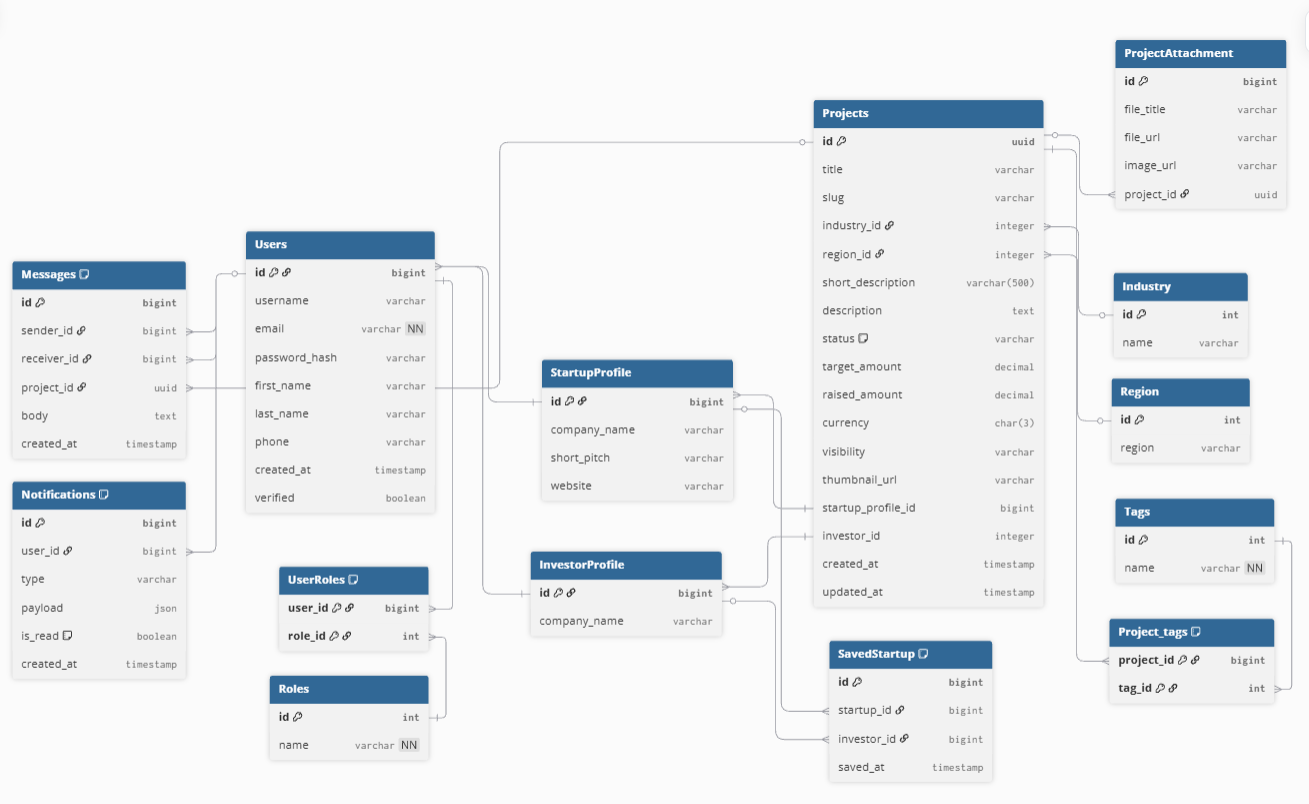
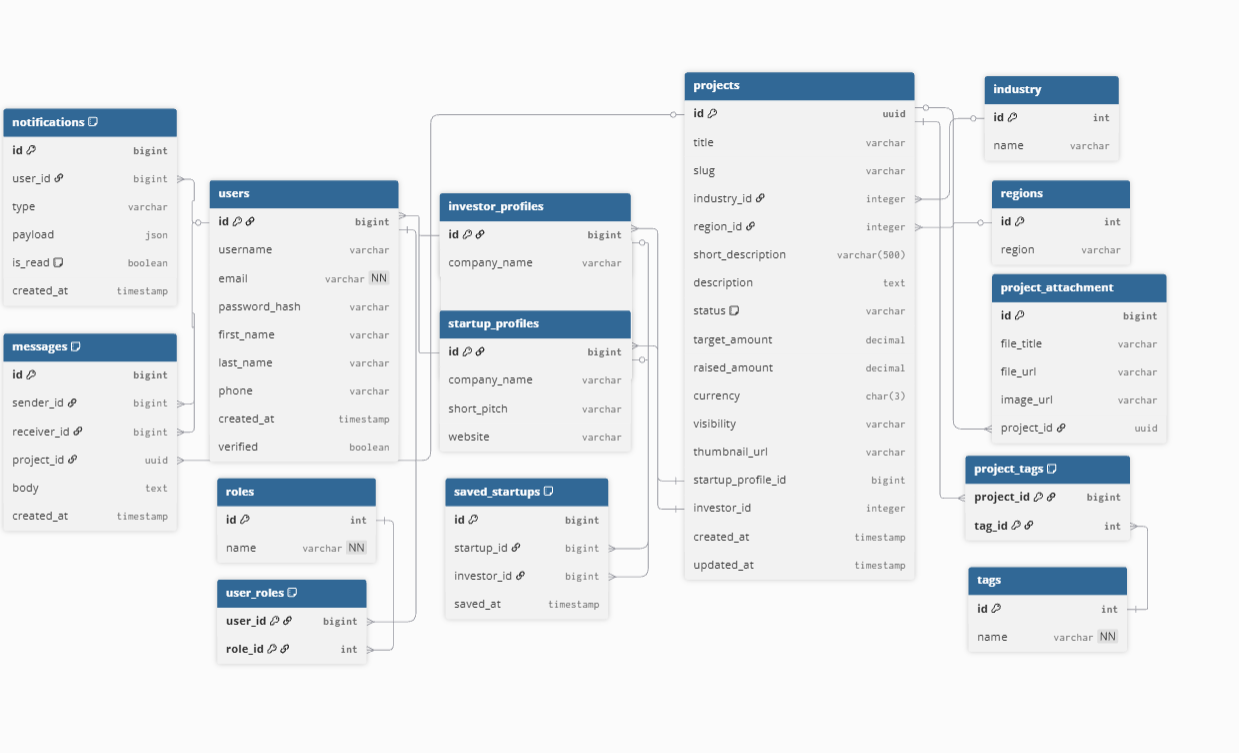
fixed a spelling error in the name 'startup' and changed the table names to snake_case

diff --git a/startup_gateway/tests/test_models.py b/startup_gateway/tests/test_models.py
@@ -1,10 +1,9 @@
-# users/tests/test_models.py
 from django.test import TestCase
 from django.contrib.auth import get_user_model
 from startups.models import StartupProfile
 from investors.models import InvestorProfile
 from projects.models import Project
-from dashboard.models import SavedStartap
+from dashboard.models import SavedStartup
 from messages.models import Message
 from notifications.models import Notification
 from users.models import Role, UserRole
@@ -45,9 +44,9 @@ class TestModels(TestCase):
         project = Project.objects.get(title='Example Project')
         self.assertEqual(project.startup_profile.company_name, 'Example Startup')
 
-    def test_savedstartap(self):
-        saved = SavedStartap.objects.get(investor_profile__company_name='Example Investor')
-        self.assertEqual(saved.startap_profile.company_name, 'Example Startup')
+    def test_savedstartup(self):
+        saved = SavedStartup.objects.get(investor_profile__company_name='Example Investor')
+        self.assertEqual(saved.startup_profile.company_name, 'Example Startup')
 
     def test_message_model(self):
         startup_user = User.objects.get(username='startup_user')

diff --git a/startup_gateway/dashboard/models.py b/startup_gateway/dashboard/models.py
@@ -1,12 +1,12 @@
 from django.db import models 
 
-class SavedStartap(models.Model): 
+class  SavedStartup(models.Model): 
     investor_profile = models.ForeignKey(
         'investors.InvestorProfile', 
         on_delete=models.CASCADE,
         related_name='saved_startups'
         ) 
-    startap_profile = models.ForeignKey(
+    startup_profile = models.ForeignKey(
         'startups.StartupProfile', 
         on_delete=models.CASCADE,
         related_name='saved_by_investors'
@@ -15,8 +15,8 @@ class SavedStartap(models.Model):
     
     
     class Meta: 
-        db_table = 'SavedStartap'
-        unique_together = ('investor_profile', 'startap_profile')
+        db_table = 'saved_startaps'
+        unique_together = ('investor_profile', 'startup_profile')
 
     def __str__(self):
-        return f'{self.investor_profile} saved {self.startap_profile}'
+        return f'{self.investor_profile} saved {self.startup_profile}'

diff --git a/startup_gateway/users/models.py b/startup_gateway/users/models.py
@@ -9,7 +9,7 @@ class Role(models.Model):
     name = models.CharField(max_length=50, unique=True)
 
     class Meta:
-        db_table = 'Roles'
+        db_table = 'roles'
 
     def __str__(self):
         return self.name
@@ -36,7 +36,7 @@ class User(AbstractUser):
     )
 
     class Meta:
-        db_table = 'Users'
+        db_table = 'users'
 
     def __str__(self):
         return self.username
@@ -51,7 +51,7 @@ class UserRole(models.Model):
     role = models.ForeignKey(Role, on_delete=models.CASCADE)
 
     class Meta:
-        db_table = 'UserRoles'
+        db_table = 'user_roles'
         unique_together = ('user', 'role')
         indexes = [
             models.Index(fields=['user']),

diff --git a/startup_gateway/notifications/models.py b/startup_gateway/notifications/models.py
@@ -16,7 +16,7 @@ class Notification(models.Model):
     created_at = models.DateTimeField(auto_now_add=True)
 
     class Meta:
-        db_table = 'Notifications'
+        db_table = 'notifications'
         indexes = [
             models.Index(fields=['user']),
             models.Index(fields=['is_read']),

diff --git a/startup_gateway/messages/models.py b/startup_gateway/messages/models.py
@@ -24,7 +24,7 @@ class Message(models.Model):
     created_at = models.DateTimeField(auto_now_add=True)
 
     class Meta:
-        db_table = 'Messages'
+        db_table = 'messages'
         indexes = [
             models.Index(fields=['sender']),
             models.Index(fields=['receiver']),

diff --git a/startup_gateway/investors/models.py b/startup_gateway/investors/models.py
@@ -14,7 +14,7 @@ class InvestorProfile(models.Model):
     company_name = models.CharField(max_length=255)
    
     class Meta:
-        db_table = 'InvestorProfile'
+        db_table = 'investor_profiles'
         indexes = [
             models.Index(fields=['company_name']),
         ]

diff --git a/startup_gateway/startups/models.py b/startup_gateway/startups/models.py
@@ -15,7 +15,7 @@ class StartupProfile(models.Model):
     website = models.URLField(blank=True)
 
     class Meta:
-        db_table = 'StartupProfile'
+        db_table = 'startup_profiles'
         indexes = [
             models.Index(fields=['company_name']),
         ]

diff --git a/startup_gateway/projects/models.py b/startup_gateway/projects/models.py
@@ -11,7 +11,7 @@ class Project(models.Model):
     updated_at = models.DateTimeField(auto_now=True)
 
     class Meta:
-        db_table = 'Projects'
+        db_table = 'projects'
         indexes = [
             models.Index(fields=['title']),
         ]
